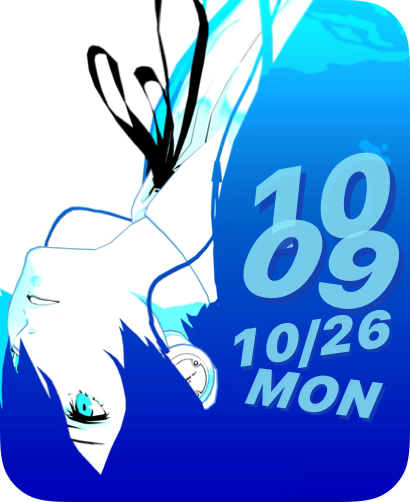
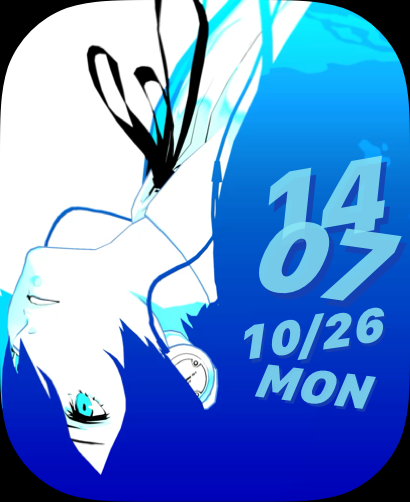
fix(clock): 微调 Ultra 2 49mm 右侧分钟行安全边距

diff --git a/App/GlassClock.swift b/App/GlassClock.swift
@@ -19,8 +19,8 @@ enum GlassClock {
     /// 图左上角在屏幕上的位置
     private static let origin = CGPoint(x: slotCenter.x - imageSize.width / 2, y: slotCenter.y - imageSize.height / 2)
 
-    // 版式（Ultra 2 49mm 205×251 屏幕点）：时分 56 号、日期星期 26 号，首行中心 y=101，右缘 x=200（距右缘 5 点）。
-    private static let big: CGFloat = 56, small: CGFloat = 26, top: CGFloat = 101, right: CGFloat = 200
+    // 版式（Ultra 2 49mm 205×251 屏幕点）：时分 54 号、日期星期 25 号，首行中心 y=101，右缘 x=196（计入斜体与旋转外扩后距右缘约 4 点）。
+    private static let big: CGFloat = 54, small: CGFloat = 25, top: CGFloat = 101, right: CGFloat = 196
     private static let overlap: CGFloat = 0.55      // 时、分中心间距 = big × overlap，小于字高所以压叠
     private static let skewDeg: CGFloat = 16
     private static let cyan = UIColor(red: 0x8B / 255.0, green: 0xE8 / 255.0, blue: 0xF5 / 255.0, alpha: 0.82)
@@ -69,7 +69,7 @@ enum GlassClock {
                       top + big * overlap + big * 0.38 + small * 1.67]
             // 文字、字体、字号、倾角、字距、右缘内缩
             let rows: [(String, UIFont, CGFloat, CGFloat, CGFloat, CGFloat)] = [
-                (hm[0], bigFont, big, 10, 0, 2), (hm[1], bigFont, big, -8, 0, 0),
+                (hm[0], bigFont, big, 10, 0, 2), (hm[1], bigFont, big, -8, 0, 4),
                 (dateFormatter.string(from: date), smallFont, small, 8, 0.5, 3),
                 (weekdayFormatter.string(from: date).uppercased(), smallFont, small, -7, 1.0, 10)]
             for (i, (text, font, size, deg, kern, inset)) in rows.enumerated() {
